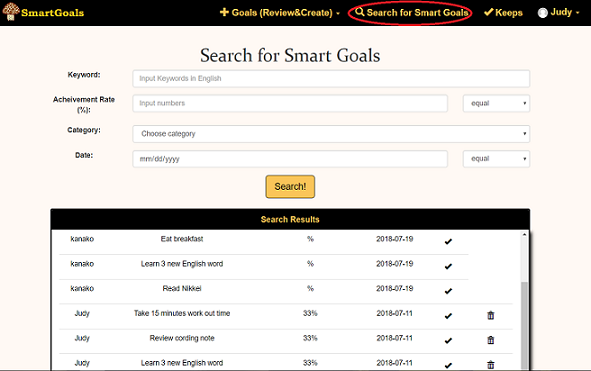
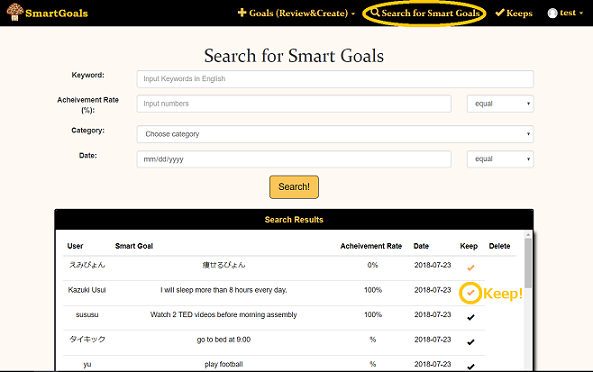
screen shot modified

diff --git a/resources/views/users/howto.blade.php b/resources/views/users/howto.blade.php
@@ -74,15 +74,17 @@
                             🔍Search for Smart Goalsで<br>
                             他のユーザーのSmart Goalを<br>
                             絞り込み検索！<br>
+                            ✔ボタンで他のユーザーの<br>
+                            Smart GoalをKeep!
                         </p>
                     </div>
             </section>
             <section  id="keep">
                  <div class="skill-box">  
-                    <div class="skill-title">KEEP</div>
+                    <div class="skill-title">KEEP List</div>
                         <p class="skill-text">
-                            ✔ボタンで他のユーザーの<br>Smart Goalをkeep!<br>
-                            Smart Goal作成の際に<br>参照できます
+                            KeepしたSmart Goalを<br>
+                            Keepsページでチェックできる!
                         </p>
                     </div>
                 <div class="skill-box">
